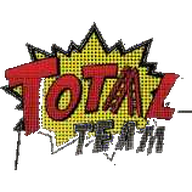
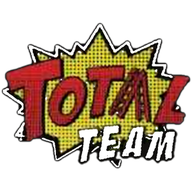
Logó: javított eredeti kivágás mindenhol (nyitóoldal, raktár, admin, fülikon); régi változatok törölve
Claude-Session: https://claude.ai/code/session_01Q1cxDRPZAJRxcz6MfezuuT

diff --git a/public/index.html b/public/index.html
@@ -57,11 +57,7 @@ h2.sec { font-family: var(--font-display); font-size: clamp(32px, 5vw, 52px); li
 .top.solid { background: var(--surface); border-color: var(--border); }
 .top-in { display: flex; align-items: center; gap: 24px; height: 64px; }
 .logo { font-family: var(--font-display); font-size: 21px; font-weight: 700; text-decoration: none; color: #fff; white-space: nowrap; }
-.top .logo img { height: 46px; width: auto; }
-.top .lg-light { display: none; }
-.top.solid .lg-dark, .top.open .lg-dark { display: none; }
-.top.solid .lg-light, .top.open .lg-light { display: block; }
-@media (prefers-color-scheme: dark) { :root:not([data-theme="light"]) .top .lg-light { display: none !important; } :root:not([data-theme="light"]) .top .lg-dark { display: block !important; } }
+.top .logo img { height: 50px; width: auto; display: block; }
 .logo span { color: var(--accent); }
 .top.solid .logo { color: var(--fg); }
 .nav { display: flex; gap: 26px; margin-left: auto; }
@@ -222,7 +218,7 @@ footer a:hover { color: #fff; }
 
 <header class="top" id="top">
   <div class="wrap top-in">
-    <a class="logo" href="#"><img class="lg-dark" src="/img/total-team-mark.png" alt="Total Team" width="62" height="48"><img class="lg-light" src="/img/total-team-mark-light.png" alt="" width="62" height="48"></a>
+    <a class="logo" href="#"><img src="/img/total-team-logo-clean.png" alt="Total Team" width="62" height="48"></a>
     <nav class="nav" id="nav">
       <a href="#szolgaltatasok">Szolgáltatások</a>
       <a href="#munkaink">Munkáink</a>
@@ -359,7 +355,7 @@ footer a:hover { color: #fff; }
 
 <footer>
   <div class="wrap f-in">
-    <a class="logo" href="#"><img src="/img/total-team-mark.png" alt="Total Team" width="52" height="40" style="height:40px;width:auto"></a>
+    <a class="logo" href="#"><img src="/img/total-team-logo-clean.png" alt="Total Team" width="52" height="40" style="height:42px;width:auto;display:block"></a>
     <nav><a href="#munkaink">Munkáink</a><a href="/raktar.html">Kellékraktár</a><a href="#kapcsolat">Kapcsolat</a><a href="/admin.html">Belső felület</a></nav>
     <span>© <span id="yr"></span> Total Team · Creativity and Innovation</span>
   </div>

diff --git a/public/admin.html b/public/admin.html
@@ -225,7 +225,7 @@ html, body { overflow-x: hidden; }
       </nav>
       <div class="head-right">
         <button class="btn small primary scan-open" id="scanOpen" type="button"><svg width="15" height="15" viewBox="0 0 24 24" fill="none" stroke="currentColor" stroke-width="2"><path d="M3 7V5a2 2 0 0 1 2-2h2M17 3h2a2 2 0 0 1 2 2v2M21 17v2a2 2 0 0 1-2 2h-2M7 21H5a2 2 0 0 1-2-2v-2"/><rect x="7" y="7" width="4" height="4"/><rect x="13" y="13" width="4" height="4"/><path d="M13 7h4v2M7 15v2h2"/></svg>Beolvasás</button>
-        <a class="stock-logo" href="/raktar.html" title="Raktárkészlet" aria-label="Raktárkészlet"><picture><source srcset="/img/total-team-mark.png" media="(prefers-color-scheme: dark)"><img src="/img/total-team-mark-light.png" alt="Total Team – raktárkészlet" width="52" height="40"></picture></a>
+        <a class="stock-logo" href="/raktar.html" title="Raktárkészlet" aria-label="Raktárkészlet"><picture><img src="/img/total-team-logo-clean.png" alt="Total Team – raktárkészlet" width="52" height="40"></picture></a>
         <a class="link-btn" href="/cimkek.html" target="_blank" rel="noopener">Címkék ↗</a>
         <button class="link-btn" id="logout" type="button">Kilépés</button>
       </div>

diff --git a/public/raktar.html b/public/raktar.html
@@ -208,7 +208,7 @@ button { font-family: inherit; }
 <body>
 <header class="header">
   <div class="header-inner">
-    <a class="logo" href="/" style="display:flex;align-items:center;gap:8px;text-decoration:none;color:inherit"><picture><source srcset="/img/total-team-mark.png" media="(prefers-color-scheme: dark)"><img src="/img/total-team-mark-light.png" alt="Total Team" width="49" height="38" style="height:38px;width:auto;display:block"></picture>Raktár</a>
+    <a class="logo" href="/" style="display:flex;align-items:center;gap:8px;text-decoration:none;color:inherit"><picture><img src="/img/total-team-logo-clean.png" alt="Total Team" width="49" height="38" style="height:38px;width:auto;display:block"></picture>Raktár</a>
     <div class="search-wrap">
       <svg width="14" height="14" viewBox="0 0 24 24" fill="none" stroke="currentColor" stroke-width="2"><circle cx="11" cy="11" r="8"/><path d="m21 21-4.35-4.35"/></svg>
       <input id="search" type="search" placeholder="Keresés: név, kód, szín, anyag…" autocomplete="off">
